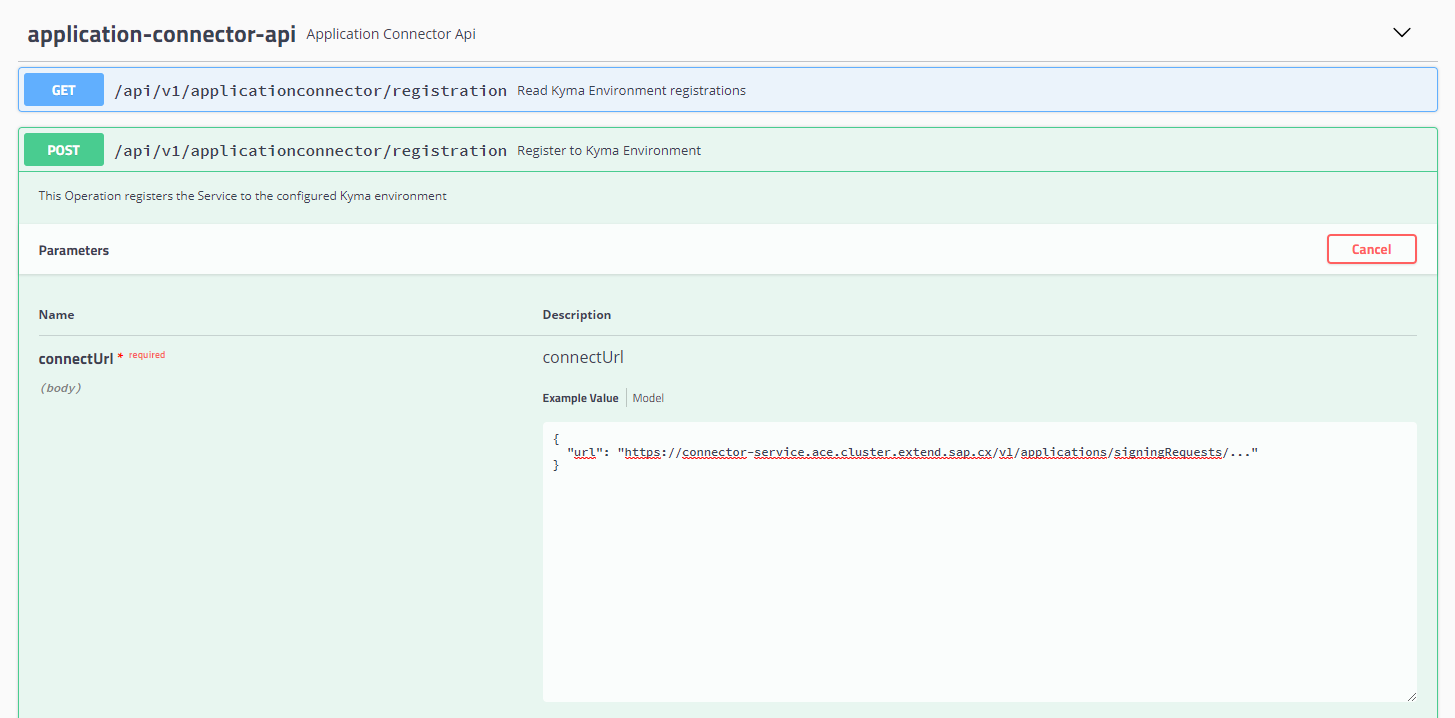
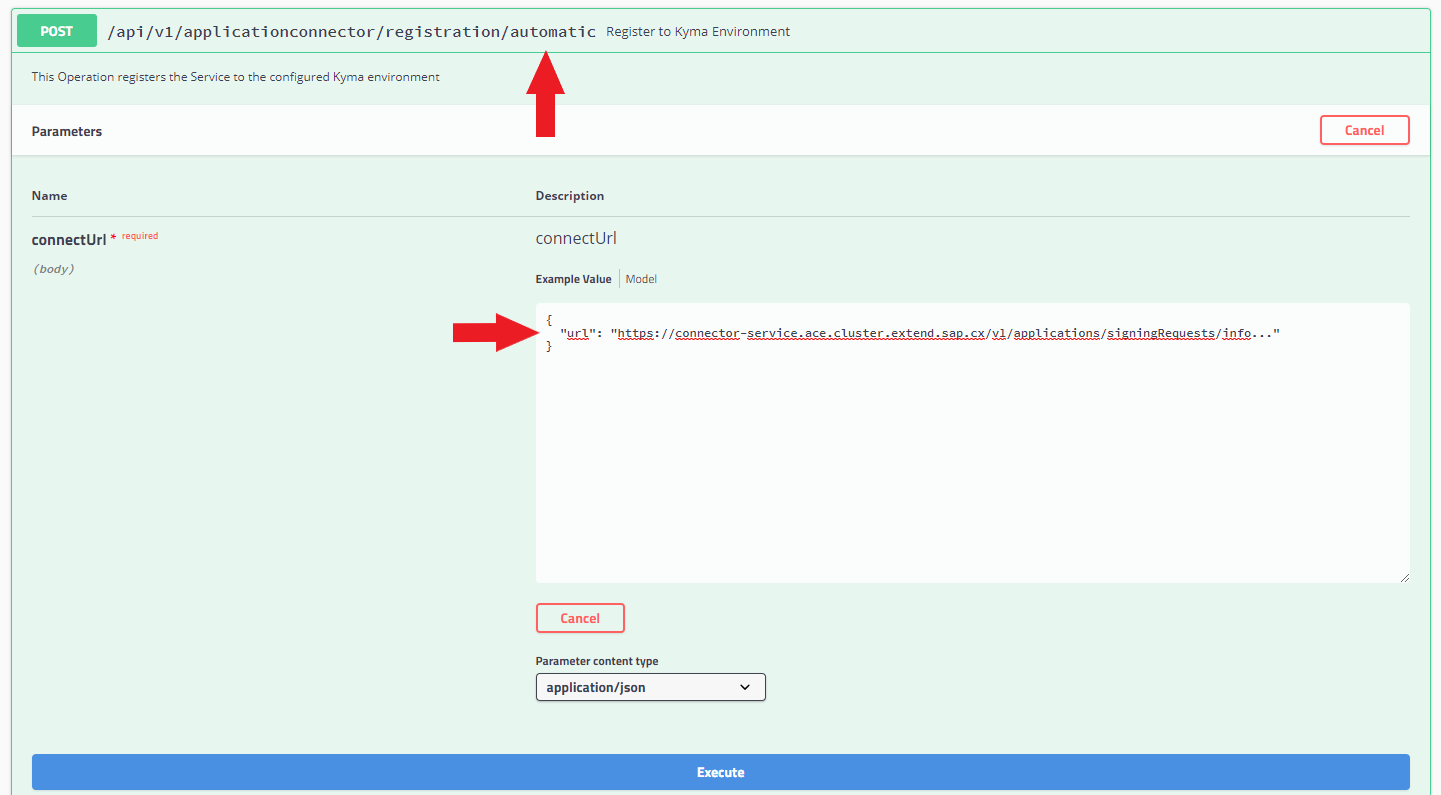
Updated documentation and added alternative APIs

diff --git a/personservice/src/main/java/com/sap/demo/applicationconnector/rest/ApplicationConnectorApi.java b/personservice/src/main/java/com/sap/demo/applicationconnector/rest/ApplicationConnectorApi.java
@@ -1,7 +1,5 @@
 package com.sap.demo.applicationconnector.rest;
 
-import java.net.URI;
-import java.net.URISyntaxException;
 import java.util.Collections;
 import java.util.List;
 import java.util.Map;
@@ -18,11 +16,8 @@ import org.springframework.http.HttpStatus;
 import org.springframework.http.ResponseEntity;
 import org.springframework.web.bind.annotation.DeleteMapping;
 import org.springframework.web.bind.annotation.GetMapping;
-import org.springframework.web.bind.annotation.PathVariable;
 import org.springframework.web.bind.annotation.PostMapping;
 import org.springframework.web.bind.annotation.RequestBody;
-import org.springframework.web.bind.annotation.RequestMapping;
-import org.springframework.web.bind.annotation.ResponseBody;
 import org.springframework.web.bind.annotation.RestController;
 
 import io.swagger.annotations.ApiOperation;
@@ -40,10 +35,11 @@ public class ApplicationConnectorApi {
 	@Autowired
 	private PairingService pairingService;
 
-	@PostMapping("/api/v1/applicationconnector/registration")
+	@PostMapping("/api/v1/applicationconnector/registration/automatic")
 	@ApiOperation(value = "Register to Kyma Environment", notes = "This Operation registers "
 			+ "the Service to the configured Kyma environment")
 	public ResponseEntity<Map<String, String>> connectivityTest(@RequestBody ConnectUrl connectUrl) {
+
 		if (pairingService.executeInitialPairing(connectUrl)) {
 			String registrationId = registrationService.registerWithKymaInstance();
 			if (StringUtils.isNotBlank(registrationId)) {
@@ -55,6 +51,19 @@ public class ApplicationConnectorApi {
 			return new ResponseEntity<Map<String, String>>(
 					Collections.singletonMap("response", "Certificate generation failed. See logs."),
 					HttpStatus.valueOf(500));
+		}
+	}
+
+	@PostMapping("/api/v1/applicationconnector/registration/manual")
+	@ApiOperation(value = "Register to Kyma Environment", notes = "This Operation registers "
+			+ "the Service to the configured Kyma environment")
+	public ResponseEntity<Map<String, String>> connectivityTest() {
+
+		String registrationId = registrationService.registerWithKymaInstance();
+		if (StringUtils.isNotBlank(registrationId)) {
+			return new ResponseEntity<Map<String, String>>(Collections.singletonMap("id", registrationId), HttpStatus.OK);
+		} else {
+			return new ResponseEntity<Map<String, String>>(Collections.singletonMap("id", registrationId), HttpStatus.valueOf(500));
 		}
 	}
 

diff --git a/personservice/src/main/java/com/sap/demo/applicationconnector/pairing/PairingService.java b/personservice/src/main/java/com/sap/demo/applicationconnector/pairing/PairingService.java
@@ -9,6 +9,7 @@ import java.security.KeyPair;
 import java.security.KeyStore;
 import java.security.KeyStoreException;
 import java.security.NoSuchAlgorithmException;
+import java.security.UnrecoverableKeyException;
 import java.security.cert.Certificate;
 import java.security.cert.CertificateException;
 import java.security.cert.CertificateFactory;
@@ -59,8 +60,6 @@ public class PairingService {
 
     private CertificateService certService;
 
-    private RestTemplateBuilder restTemplateBuilder;
-
     @Value("${personservicekubernetes.applicationconnector.keystorepassword}")
     private char[] keystorePassword;
 
@@ -75,7 +74,6 @@ public class PairingService {
      */
     @Autowired
     public void setClientCertRestTemplateBuilder(RestTemplateBuilder restTemplateBuilder) {
-        this.restTemplateBuilder = restTemplateBuilder;
     }
 
     /**
@@ -158,7 +156,6 @@ public class PairingService {
             ks.store(out, keystorePassword);
             out.flush();
             out.close();
-            logger.trace("Babe, bin fertig!");
             
             return ks;
 
@@ -246,11 +243,17 @@ public class PairingService {
             KeyStore keyStore = getCertificateInternal(pairingTemplate, keystorePassword, connectInfo.getCsrUrl(),
             csr.getCsr(), csr.getKeypair());
             
-            if (keyStore != null) {
+            if (keyStore.getKey("extension-factory-key", keystorePassword) != null) {
                 return true;
             }
             
         } catch (URISyntaxException e) {
+            throw new ApplicationConnectorException(e.getMessage(), e);
+        } catch (KeyStoreException e) {
+            throw new ApplicationConnectorException(e.getMessage(), e);
+        } catch (NoSuchAlgorithmException e) {
+            throw new ApplicationConnectorException(e.getMessage(), e);
+        } catch (UnrecoverableKeyException e) {
             throw new ApplicationConnectorException(e.getMessage(), e);
         }
 

diff --git a/personservice/src/main/java/com/sap/demo/applicationconnector/client/ApplicationConnectorRestTemplateConfiguration.java b/personservice/src/main/java/com/sap/demo/applicationconnector/client/ApplicationConnectorRestTemplateConfiguration.java
@@ -55,6 +55,7 @@ public class ApplicationConnectorRestTemplateConfiguration {
 					.loadTrustMaterial(null, new TrustSelfSignedStrategy())
 					.loadKeyMaterial(clientCertificate, keyStorePassword.toCharArray())
 					.build();
+					
 			SSLConnectionSocketFactory socketFactory = new SSLConnectionSocketFactory(sslContext);
 
 			HttpClient client = HttpClients.custom().setSSLSocketFactory(socketFactory).build();

diff --git a/personservice/src/main/java/com/sap/demo/applicationconnector/pairing/PairingServiceConfiguration.java b/personservice/src/main/java/com/sap/demo/applicationconnector/pairing/PairingServiceConfiguration.java
@@ -1,4 +1,4 @@
-package com.sap.demo.applicationconnector.client;
+package com.sap.demo.applicationconnector.pairing;
 
 import org.apache.http.client.HttpClient;
 import org.apache.http.impl.client.HttpClients;

diff --git a/personservice/src/main/java/com/sap/demo/applicationconnector/entity/Connection.java b/personservice/src/main/java/com/sap/demo/applicationconnector/entity/Connection.java
@@ -1,6 +1,5 @@
 package com.sap.demo.applicationconnector.entity;
 
-
 import java.net.URI;
 import java.security.KeyStore;
 import java.security.KeyStoreException;

diff --git a/personservice/README.md b/personservice/README.md
@@ -278,7 +278,7 @@ After Pods are recreated, your new Application shall show up in the Kyma Console
 
 ### Pair Person Service with Kyma Application Connector (automatically)
 
-Alternatively to the presented flow you can just use the POST /applicationconnector/registration endpoint of the personservice where you insert the URL from Kyma into the JSON. The service will create the CSR itself, get the certificate from Kyma and store it in the persistent volume.
+Alternatively to the presented flow you can just use the POST `/applicationconnector/registration/automatic` endpoint of the personservice where you insert the URL from Kyma into the JSON. The service will create the CSR itself, get the certificate from Kyma and store it in the persistent volume.
 
 ![Insert connect URL in POST body](images/applicationpairing_auto.png)
 
@@ -304,15 +304,16 @@ openssl req -new -sha256 -out personservicekubernetes.csr -key personservicekube
 
 1. Encode the content of `personservicekubernetes.csr` (Base64) and use the REST client of your choice to create the following POST call to the full URL (csrUrl) with the token you copied previously:
 ![Connect Remote Environment CSR Screenshot](images/remoteenvironmentpairing3.png)
-5. After sending you will receive a base 64 encoded signed certificate. Decode the response and save as `personservicekubernetes.crt`. The decoded response will contain separators with `BEGIN CERTIFICATE` and `END CERTIFICATE` respectively.
-6. Now you can use OpenSSL and java keytool (part of the jdk) to create a PKCS#12 (P12, also good for browser based testing) file and based on that create a Java Key Store (JKS, for the Person Service) for our service. **Do not change any passwords, except if you really know what you are doing!!!**
+2. After sending you will receive a base 64 encoded signed certificate. Decode the response and save as `personservicekubernetes.crt`. The decoded response will contain separators with `BEGIN CERTIFICATE` and `END CERTIFICATE` respectively.
+3. Now you can use OpenSSL and java keytool (part of the jdk) to create a PKCS#12 (P12, also good for browser based testing) file and based on that create a Java Key Store (JKS, for the Person Service) for our service. **Do not change any passwords, except if you really know what you are doing!!!**
    ```
    openssl pkcs12 -export -name personservicekubernetes -in personservicekubernetes.crt -inkey personservicekubernetes.key -out personservicekubernetes.p12 -password pass:kyma-project
    keytool -importkeystore -destkeystore personservicekubernetes.jks -srckeystore personservicekubernetes.p12 -srcstoretype pkcs12 -alias personservicekubernetes  -srcstorepass kyma-project -storepass kyma-project
    ```
-7. Now copy the resulting `personservicekubernetes.jks` file to `security` directory.
-8. To save the JKS persistently in the persistent volume of the Person Service you can issue the following command from your `security` directory:   
+4. Now copy the resulting `personservicekubernetes.jks` file to `security` directory.
+5. To save the JKS persistently in the persistent volume of the Person Service you can issue the following command from your `security` directory:   
    `kubectl cp personservicekubernetes.jks personservice/<POD_ID>:/jks/personservicekubernetes.jks`
+6. Use the POST `/applicationconnector/registration/manual` endpoint to register the application now.
 
 To test your deployed application connector instance you can also import the personservicekubernetes.p12 file into your Browser and call the url depicted as metadataUrl in the initial pairing response JSON. **If you are running on locally on Minikube** the port of the gateway needs to be determined separately. To do this, issue the following command:
 
